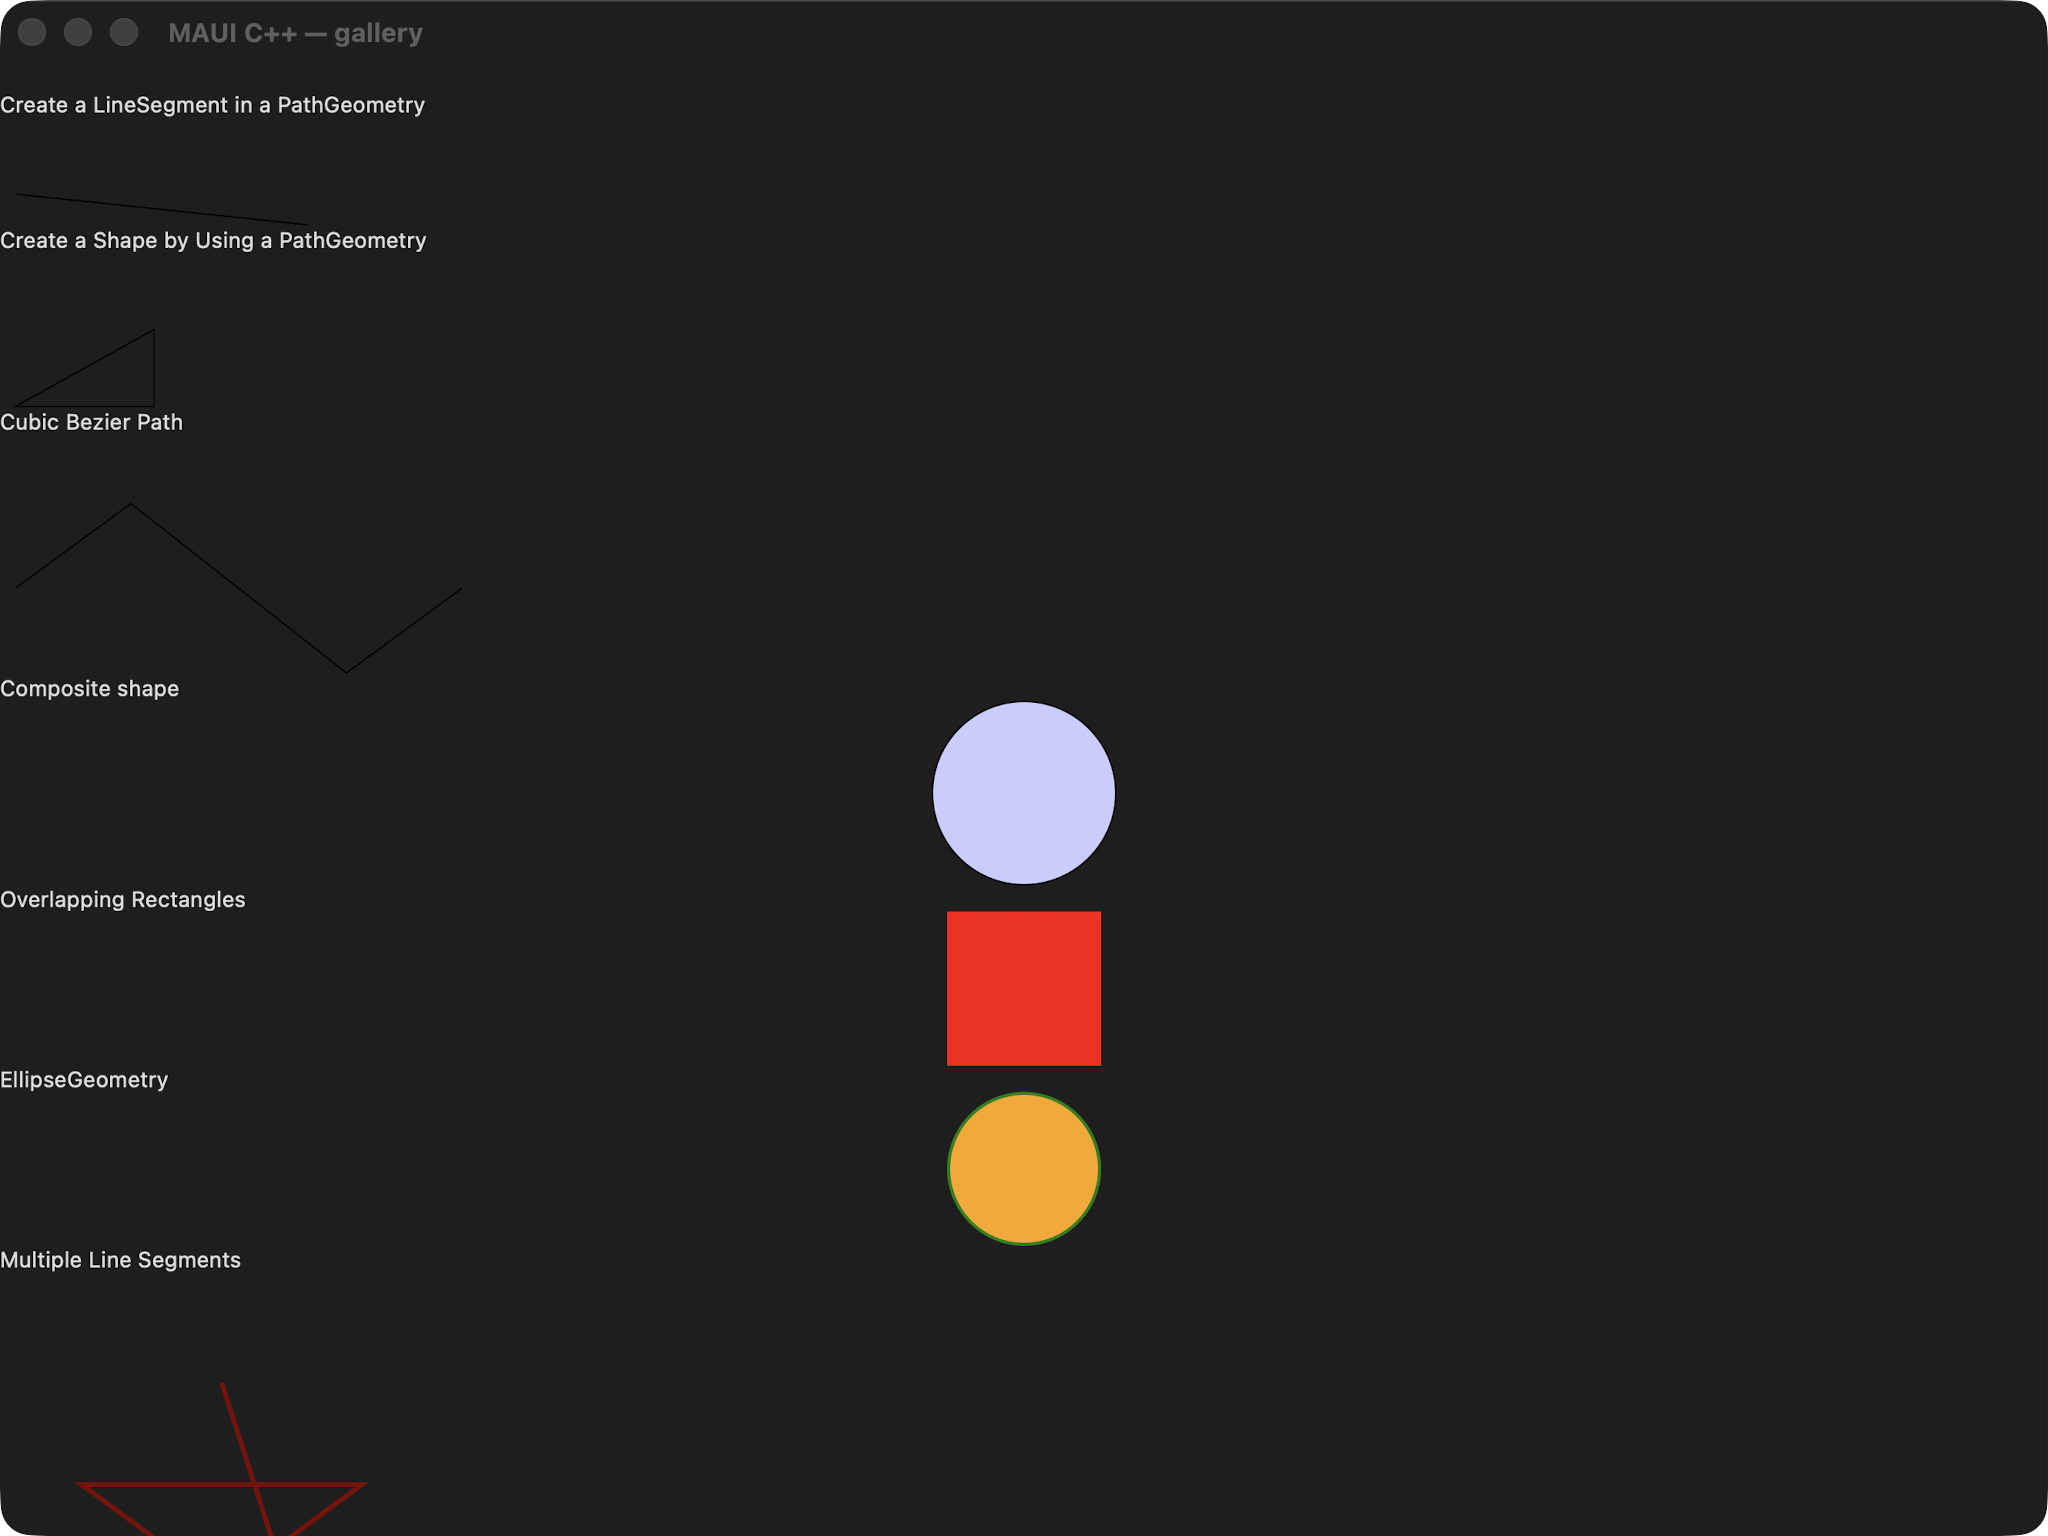
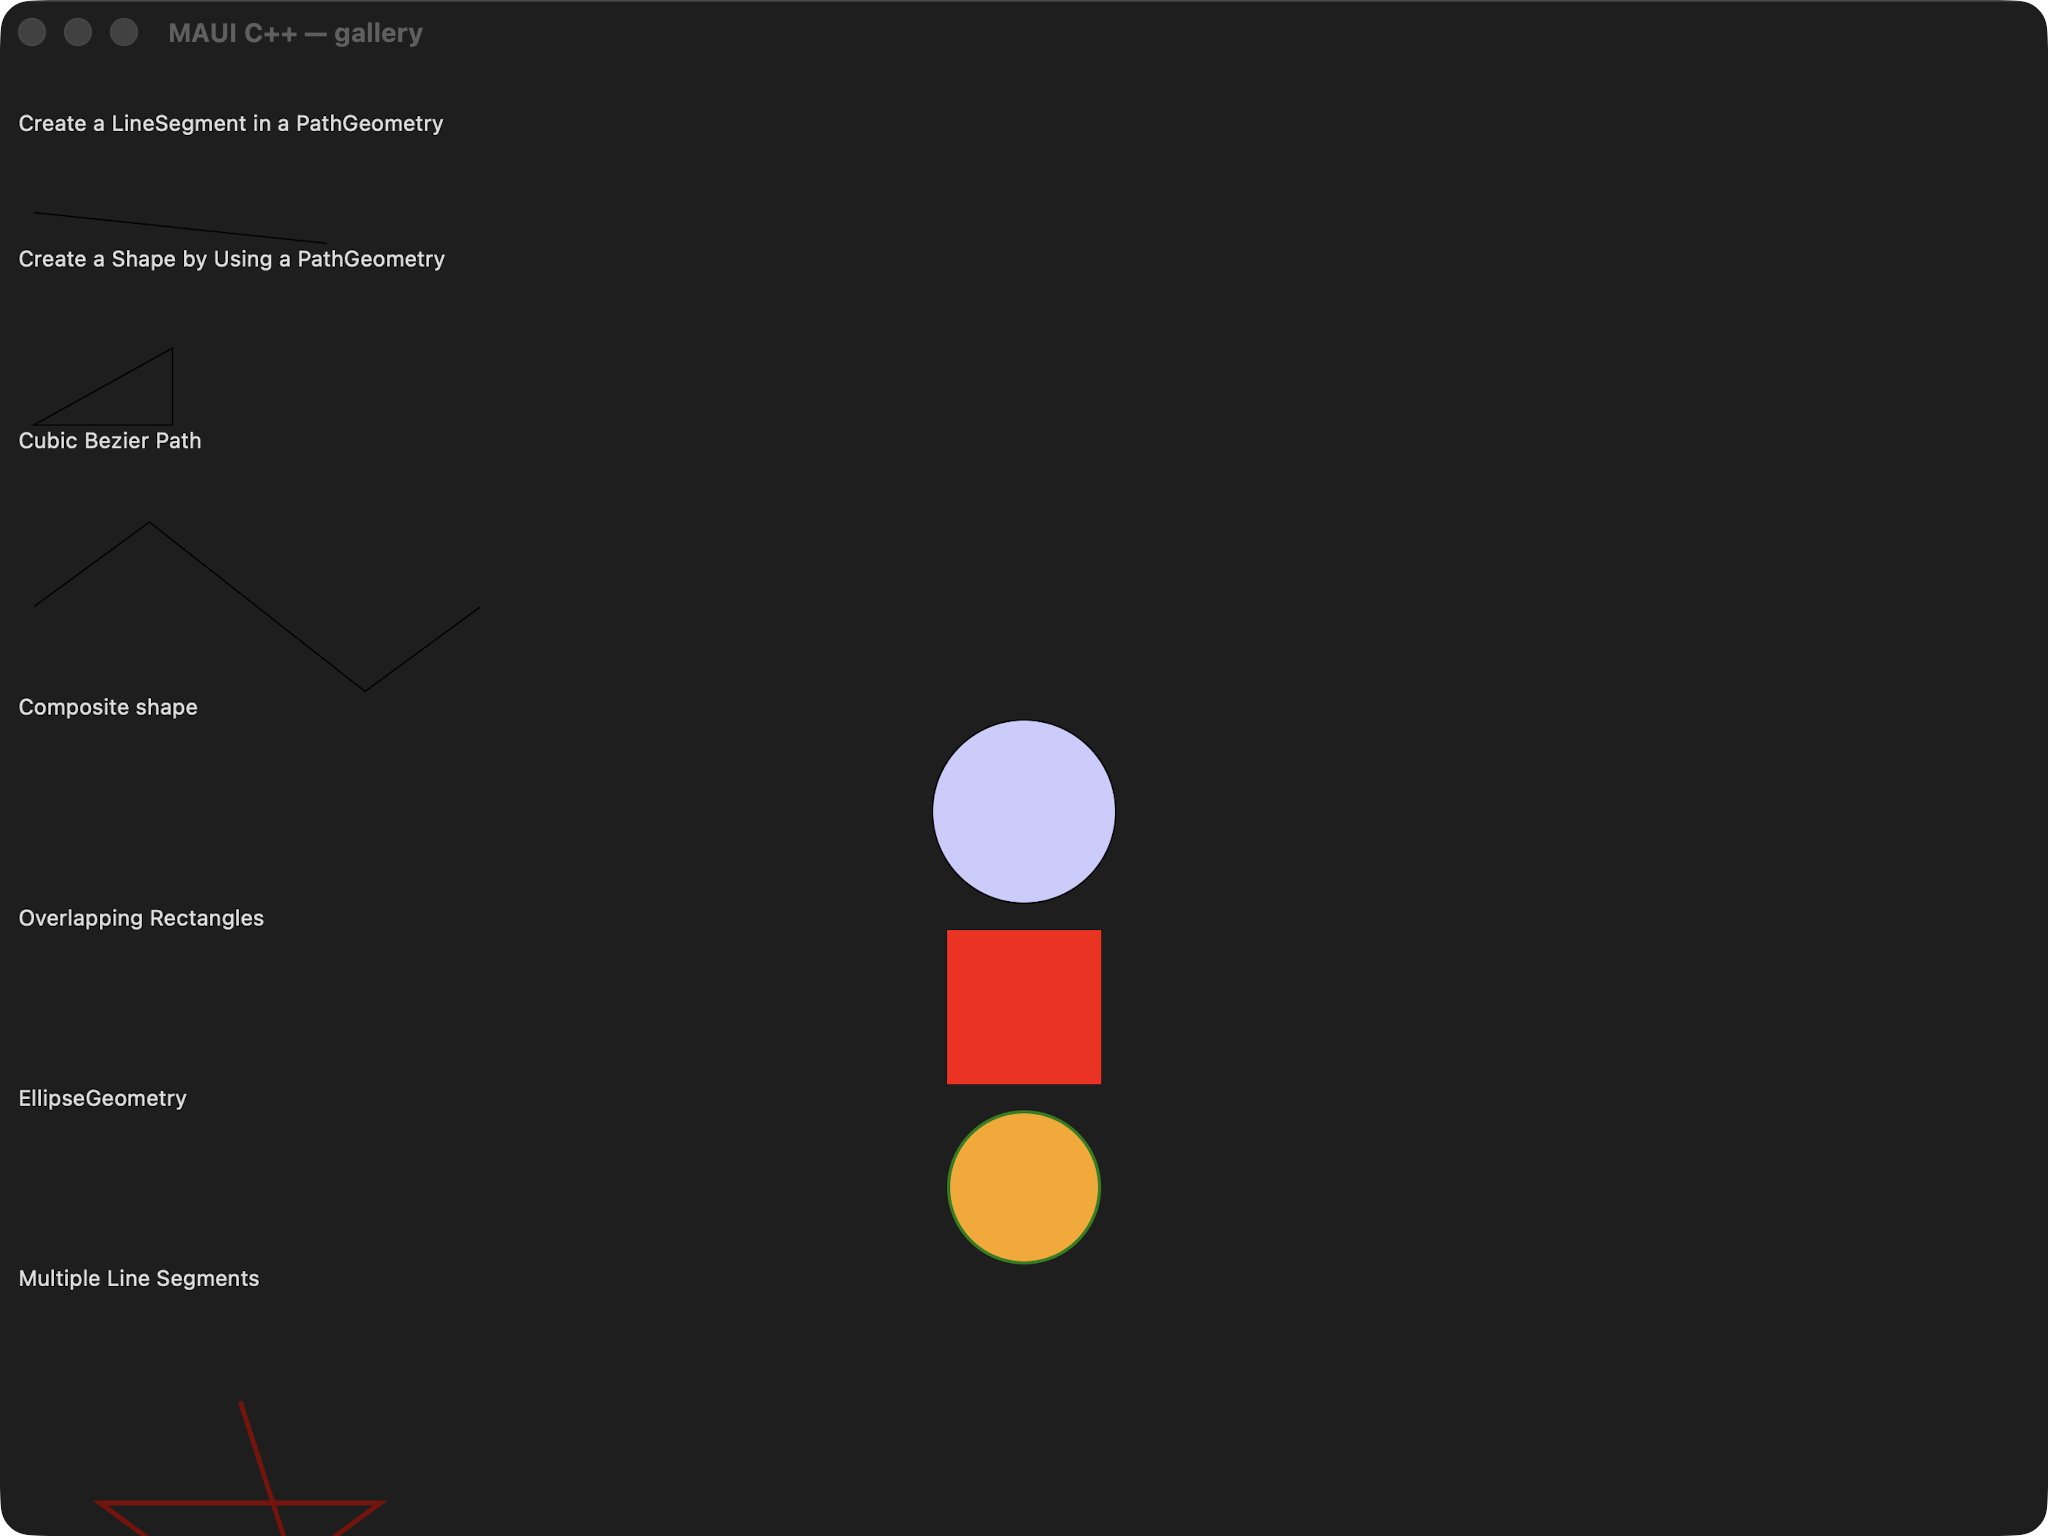
fix(gallery): path_gallery — restore the twin's Padding=12 on the root stack
A prior commit (445f52f8) fixing this page's shape content left a stale
comment claiming the shared twin (pages/path_gallery.xaml) "also omits" the
original C# StackLayout's Padding="12" — but the twin XAML actually carries
<VerticalStackLayout Padding="12">. The builder's stack had no padding at
all, so every shape sat flush against the left edge while the xaml column's
hydration correctly inset everything by 12pt: a uniform ~18px native
horizontal offset between the two columns despite otherwise-pixel-identical
content, which is exactly the class of divergence the new cpp<->xaml
consistency check exists to catch.

Fix: stack_.set_padding(thickness{12}) in the constructor, matching the twin.

Verified: all 174 gallery_structure_equivalence tests green (path_gallery
unaffected structurally — it stays a documented cluster-D divergence, see
EQUIVALENCE_FINDINGS.md, for the twin's extra Grid wrapper, unrelated to
padding) + both gallery_twin* tests; recaptured maccatalyst cpp light+dark —
the Composite-shape circle's left edge now measures x=19 in both cpp and
xaml (was x=1 in cpp); light/dark diff dropped to ~0.03% (just the window
titlebar text); `e2e.py consistency --only path_gallery` now reports 0 flags.

diff --git a/port/cpp/examples/gallery/pages/path_gallery_page.hpp b/port/cpp/examples/gallery/pages/path_gallery_page.hpp
@@ -42,8 +42,14 @@
 //         #CCCCFF (the Composite shape fill), reconstructed via color::from_argb — the cross-platform
 //         equivalent of the named/literal brush. Each is wrapped in a solid_paint (the documented
 //         brush→paint bridge).
-//   note: the C# StackLayout Padding="12" is not modeled on this layout in the port today (matching the
-//         twin, which also omits it), so it is omitted here too.
+//   note: the C# StackLayout Padding="12" IS reproduced: PORT FIX (2026-07-06, the cpp<->xaml consistency
+//         check) — the twin (pages/path_gallery.xaml) DOES carry <VerticalStackLayout Padding="12">; a
+//         stale comment here previously claimed the twin also omitted it, which was simply wrong (verified
+//         by reading the twin XAML directly). Without the matching padding, every shape sat flush against
+//         the left edge (padding 0) while the twin's hydration correctly inset everything by 12pt,
+//         producing a uniform ~18px native horizontal offset between the cpp and xaml captures despite
+//         otherwise-identical content — exactly the kind of divergence the consistency check exists to
+//         catch. stack_.set_padding(12) below now matches.
 
 #include <memory>
 #include <string>
@@ -58,6 +64,7 @@
 #include "maui/controls/shapes/polyline.hpp"
 #include "maui/controls/shapes/rectangle.hpp"
 #include "maui/controls/vertical_stack_layout.hpp"
+#include "maui/core/thickness.hpp"
 #include "maui/graphics/color.hpp"
 #include "maui/graphics/colors.hpp"
 #include "maui/graphics/solid_paint.hpp"
@@ -107,6 +114,7 @@ namespace maui::samples
         path_gallery_page()
         {
             page_.set_title("Path Gallery");
+            stack_.set_padding(maui::core::thickness{12}); // StackLayout Padding="12" (see header note)
 
             // --- #1 "Create a LineSegment in a PathGeometry": a Line, black stroke 1 — matches MAUI.
             caption(line_seg_label_, "Create a LineSegment in a PathGeometry");

diff --git a/port/maui-reference/docs/EQUIVALENCE_FINDINGS.md b/port/maui-reference/docs/EQUIVALENCE_FINDINGS.md
@@ -208,3 +208,25 @@ real C# source to confirm the port's behavior is byte-faithful.
   dark) now show the centered purple-bordered "Card" cell instead of a blank window. No port/loader
   change needed — `CarouselView.ItemsSource` via `x:Array` already worked; `gallery_xaml` just needed a
   rebuild to pick up the corrected shared markup.
+- **`path_gallery`'s first Label ("Create a LineSegment in a PathGeometry") does not render in MAUI's
+  own Mac Catalyst capture.** Verified 2026-07-06 via a mechanical cpp<->xaml consistency flag: both the
+  `cpp` and `xaml` columns were reviewed "green" against MAUI yet the two frameworks visually agreed with
+  each other (cpp-vs-xaml SSIM 0.9991 once a separately-fixed root Padding bug was corrected) — so the
+  ~3.6% residual pixel delta both columns still show against MAUI is NOT a cpp/xaml disagreement, it's a
+  genuine small MAUI-vs-port(+twin) content mismatch that a prior review pass misdiagnosed as a "capture
+  scroll/crop artifact" (ruling 2 exemption), which does not hold up: both captures are the identical
+  2048x1536 viewport with no crop difference. Direct pixel inspection shows MAUI's real render places the
+  first Line shape (`Line X1="10" Y1="50" X2="200" Y2="70"`, no `WidthRequest`/`HeightRequest`) directly
+  at the very top of the page, with NO preceding label row at all — even though the real C#
+  `PathGallery.xaml` source (and the shared twin, and the builder) all declare that Label immediately
+  before the Line. Comparing against sibling galleries: `line_gallery`'s three `<Line>` elements DO set
+  `WidthRequest`/`HeightRequest` and their preceding Labels render normally in MAUI's capture — so this
+  looks like a narrow MAUI-side measurement/rendering interaction specific to an UNCONSTRAINED-size Line
+  shape (no explicit width/height) swallowing its preceding sibling's row, not a general "first label in
+  a StackLayout" issue (confirmed: rectangle_gallery/ellipse_gallery/polygon_gallery all render their
+  first label fine). Both the port's builder and the shared twin already match the real C# source's
+  declared markup faithfully here — reproducing MAUI's exact quirk would mean deliberately hiding a Label
+  that genuinely exists in the source, which needs a user ruling (per CLAUDE.md ruling 3) before either
+  the builder or the twin invents an `IsVisible=false`-style workaround. Left unfixed pending that ruling;
+  the `sonnet`/`sonnet_xaml` review text in `comparison.json` now documents this explicitly instead of the
+  retracted crop-artifact explanation.
